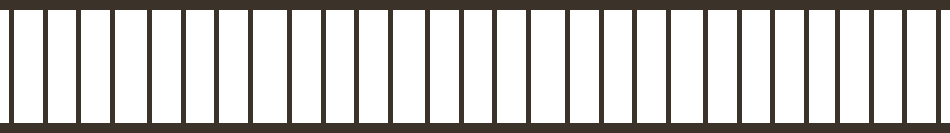
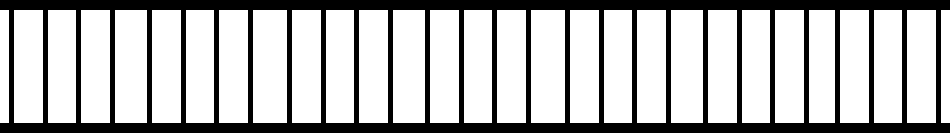
Changed color of Fire Escapes, and added a little code to enemies
I changed the color of the fire escapes to black so that their easier to
see against buildings, they are hard to see against the paralax layer
though so I might have to change them, I tried a light blue color, but
they looked wierd.

I added some code to the enemies so that when they face the other
direction they should turn but it doesn't seem to work will continue
working on it.

Changed region(s): [[0.0, 0.0, 1.0, 1.0]]

diff --git a/Assets/Scripts/Enemy.cs b/Assets/Scripts/Enemy.cs
@@ -152,10 +152,12 @@ public class Enemy : MonoBehaviour {
             
             if (direction)//going left
             {
+                b.transform.localScale = new Vector3(b.transform.localScale.x, b.transform.localScale.y);
                 b.transform.position = new Vector3(transform.position.x - .6f, transform.position.y+.2f);
             }
             else//going right
             {
+                b.transform.localScale = new Vector3(-b.transform.localScale.x, b.transform.localScale.y);
                 b.transform.position = new Vector3(transform.position.x + .6f, transform.position.y+.2f);
             }
             b.GetComponent<Bullet>().adjustVelocity(direction);
